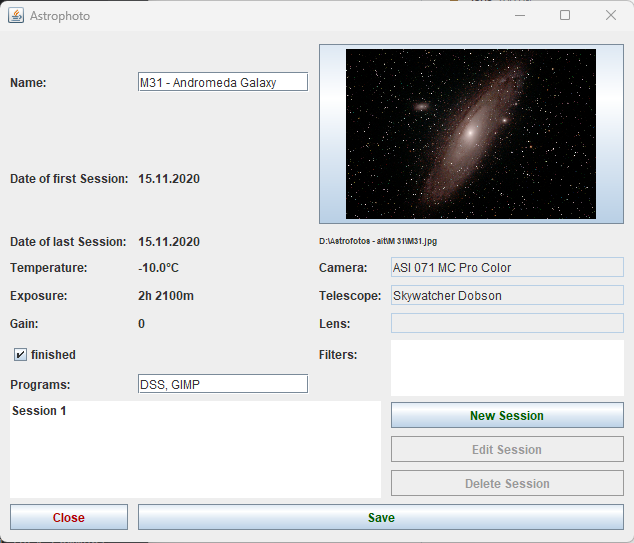
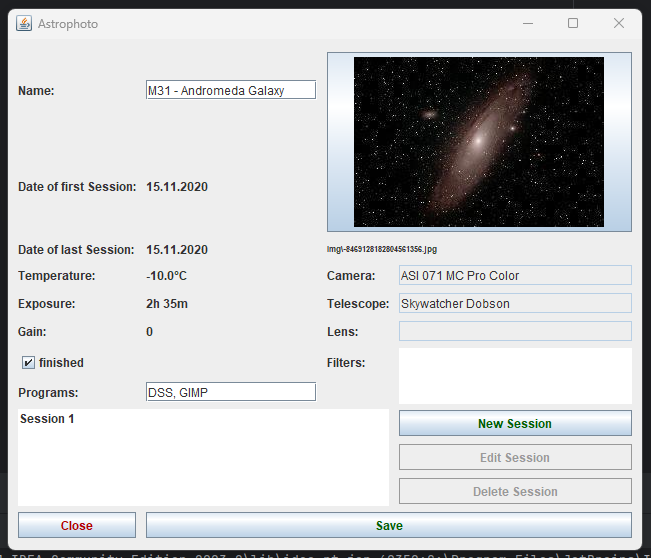
Initial commit

diff --git a/src/lib/Astrophoto.java b/src/lib/Astrophoto.java
@@ -262,10 +262,10 @@ public class Astrophoto extends Storeable {
                 sec = (int) (exposure % 60);
                 int min = (int) (exposure / 60);
                 if (min >= 60) {
-                    min = (int) (exposure % 3600);
+                    min = (int) ((exposure % 3600) / 60);
                     int h = (int) (exposure / 3600);
                     if (h >= 24) {
-                        h = (int) (exposure % (3600*24));
+                        h = (int) ((exposure % (3600*24)) / 3600);
                         int d = (int) (exposure /(3600*24));
                         return expRemoveZero(d, "d ", h, "h ", min, "m ", sec, "s ", mil, "ms");
                     } else return expRemoveZero(h, "h ", min, "m ", sec, "s ", mil, "ms");
